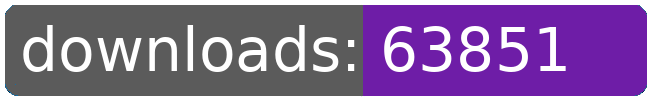
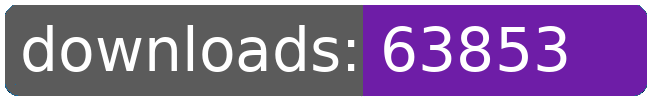
dl log written

Changed region(s): [[0.8, 0.24, 0.8923, 0.72]]

diff --git a/README.md b/README.md
@@ -21,8 +21,8 @@
 		<td>4189</td>
 		<td>4217</td>
 		<td>4250</td>
-		<td>4264</td>
-		<td>+ 14</td>
+		<td>4266</td>
+		<td>+ 16</td>
 	</tr>
 	<tr>
 		<td>aberrant.kahet.outfitter</td>
@@ -274,8 +274,8 @@
 		<td></td>
 		<td></td>
 		<td></td>
-		<td>63851</td>
-		<td>227</td>
+		<td>63853</td>
+		<td>229</td>
 	</tr>
 </table>
 </sub></sup>
@@ -311,8 +311,8 @@
 		<td>4189</td>
 		<td>4217</td>
 		<td>4250</td>
-		<td>4264</td>
-		<td>+ 14</td>
+		<td>4266</td>
+		<td>+ 16</td>
 	</tr>
 	<tr>
 		<td>bunrodeaoutfitter</td>
@@ -553,8 +553,8 @@
 		<td></td>
 		<td></td>
 		<td></td>
-		<td>63851</td>
-		<td>227</td>
+		<td>63853</td>
+		<td>229</td>
 	</tr>
 </table>
 </sub></sup>
@@ -562,7 +562,6 @@
 <table>
 	<tr>
 		<td> </td>
-		<td>2026-03-25</td>
 		<td>2026-03-26</td>
 		<td>2026-03-27</td>
 		<td>2026-03-28</td>
@@ -571,10 +570,10 @@
 		<td>2026-03-31</td>
 		<td>2026-04-01</td>
 		<td>2026-04-02</td>
+		<td>2026-04-03</td>
 	</tr>
 	<tr>
 		<td>page views</td>
-		<td>11</td>
 		<td>21</td>
 		<td>9</td>
 		<td>49</td>
@@ -583,10 +582,10 @@
 		<td>24</td>
 		<td>10</td>
 		<td>65</td>
+		<td>19</td>
 	</tr>
 	<tr>
 		<td>unique visitors</td>
-		<td>7</td>
 		<td>6</td>
 		<td>5</td>
 		<td>7</td>
@@ -595,6 +594,7 @@
 		<td>7</td>
 		<td>3</td>
 		<td>12</td>
+		<td>8</td>
 	</tr>
 </table>
 <br>
@@ -608,8 +608,8 @@
 	</tr>
 	<tr>
 		<td>2025-10-15</td>
-		<td>4797</td>
-		<td>1412</td>
+		<td>4816</td>
+		<td>1420</td>
 		<td>192</td>
 		<td>21</td>
 	</tr>
@@ -622,8 +622,8 @@
 	</tr>
 	<tr>
 		<td>171</td>
-		<td>28.05</td>
-		<td>8.26</td>
+		<td>28.16</td>
+		<td>8.30</td>
 		<td></td>
 		<td></td>
 	</tr>
